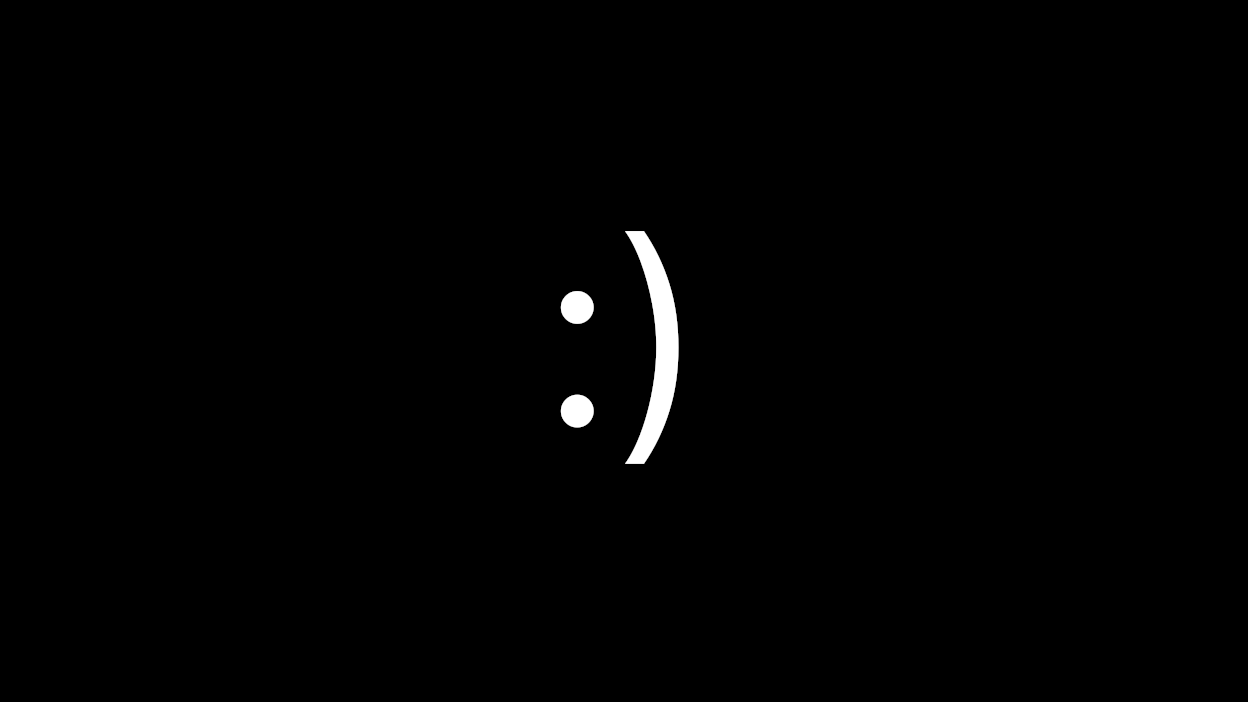
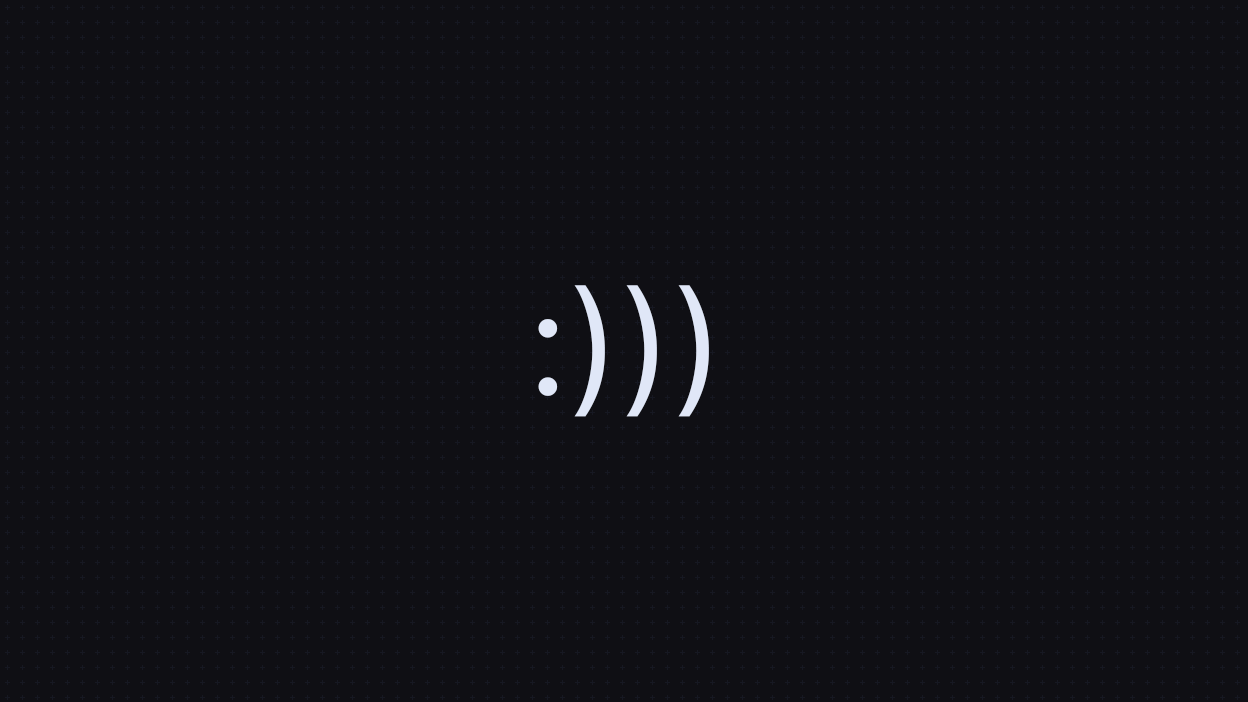
Updated og

Changed region(s): [[0.4062, 0.3291, 0.5938, 0.6581]]

diff --git a/pages/projects.tsx b/pages/projects.tsx
@@ -3,11 +3,11 @@ import Card from "@components/card";
 import { en, ru } from "@locales/index";
 import { useRouter } from "next/router";
 
+import websiteImage from "@public/og.png";
 import leshapomogiImage from "@public/projects/leshapomogi.webp";
 import tapciifyWebImage from "@public/projects/tapciify-web.webp";
 import tapciifyImage from "@public/projects/tapciify.webp";
 import taprisImage from "@public/projects/tapris.webp";
-import websiteImage from "@public/projects/website.webp";
 
 export default function ProjectsPage() {
   const router = useRouter();
@@ -42,7 +42,7 @@ export default function ProjectsPage() {
     },
     {
       name: "website",
-      url: "https://github.com/tapnisu/website/",
+      url: "https://github.com/tapnisu/tapni.su/",
       image: websiteImage,
       description: t.projectsData.website.description,
       buildUsing: ["TypeScript", "Next.js"],
